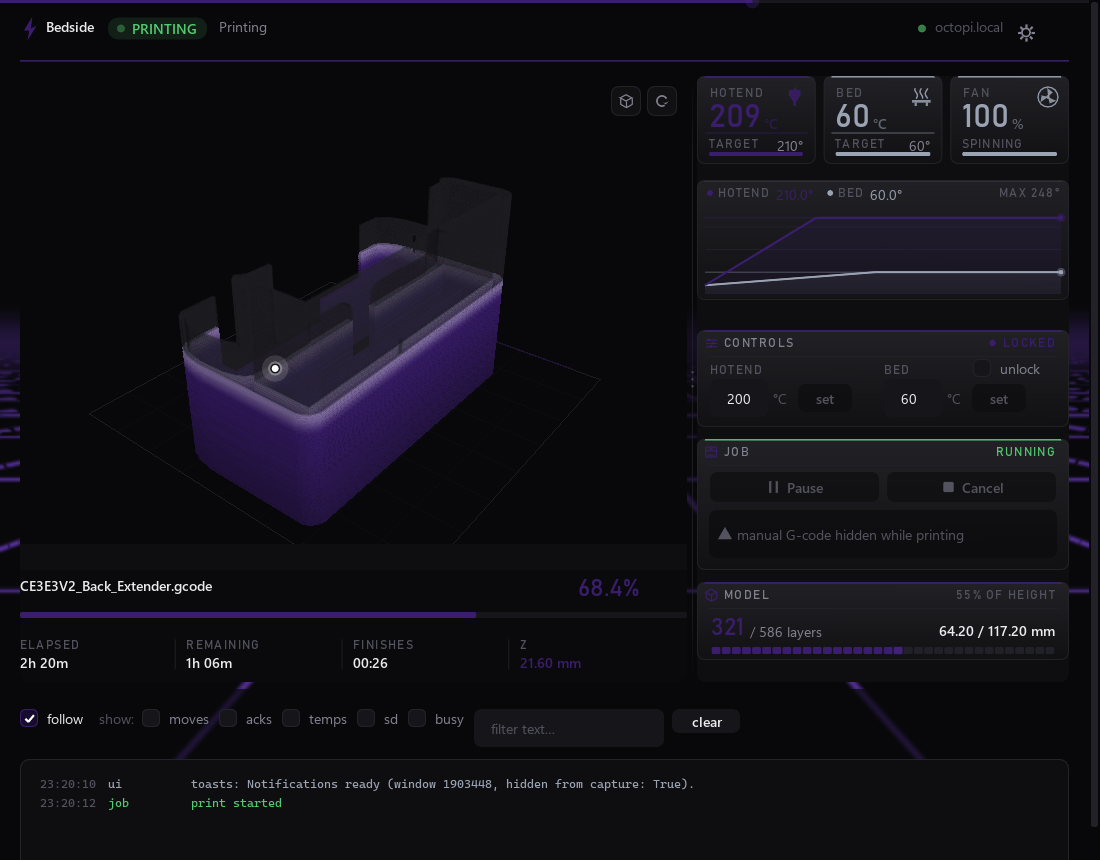
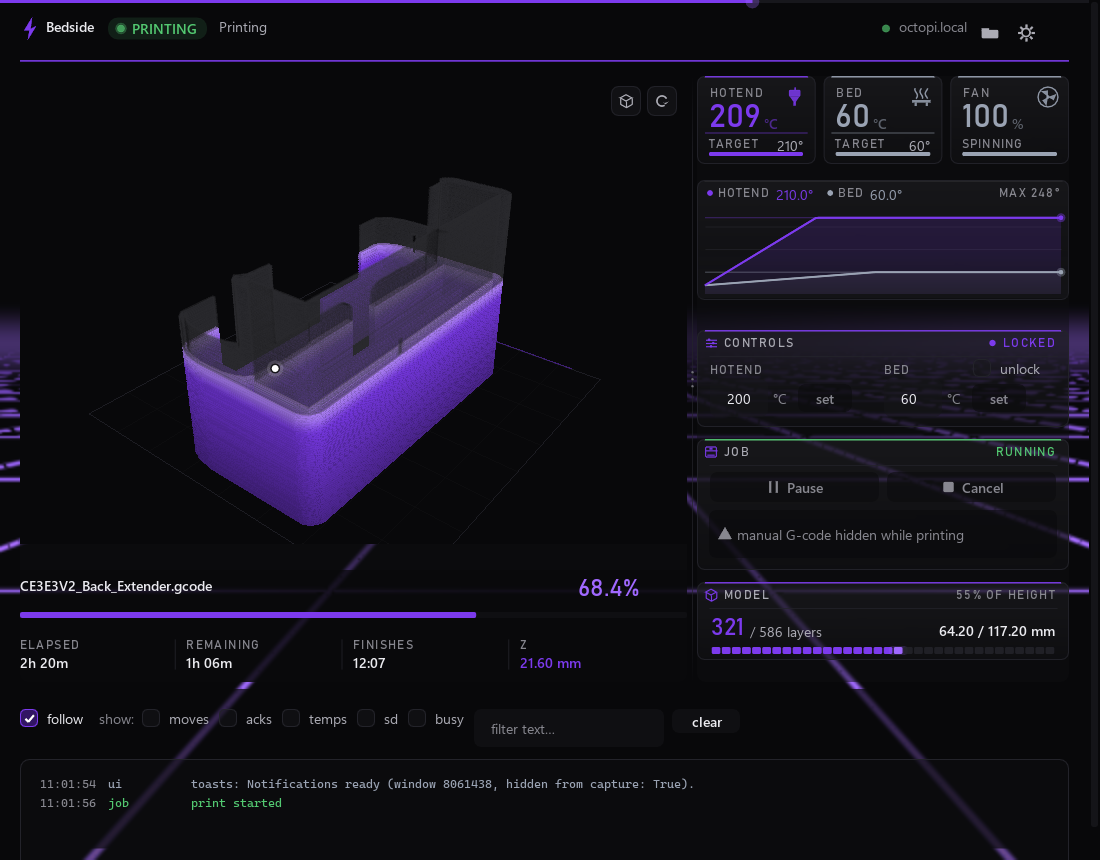
noir-iris at #7C3AED, and a spotlight that matches the app
Accent swapped from #37186E to #7C3AED — same hue (262 degrees), taken
from V=43% to V=93%, which puts it in the same brightness band as the
other presets' accents instead of well below them. Light text on it lands
at 4.75:1, so a primary button reads without help. accent_bright and
accent_dim recomputed to keep noir-red's value relationship between the
three; readable() still lifts bright the last notch, 4.39 -> 4.50:1.

The file's comment about the accent being much darker than the other
presets' was true of #37186E and is not true of this one, so it is
rewritten rather than left to mislead.

The recorder had two problems that made the README assets misleading:

  - It inherited app.st from the author's settings.json, so the showcase
    was whatever theme and accent happened to be on the recording machine.
    Theme, accent and scrim are now pinned in the script.

  - It called vui.install with a bare build_theme() and never set
    post_init, the same mistake the contrast harness made — so it was
    recording a palette the app does not render, notably the pre-0.2.2
    text ramp, which is most of what a viewer is actually looking at.

Regenerated both assets. The GIF verified by parsing the container
directly: 36 frames, NETSCAPE2.0 loop forever, uniform 10cs delays, 3.6s.
Seam checked on frames decoded by OpenCV rather than by our own encoder's
mirror — last-to-first difference is 1.02x the median step, i.e. the wrap
[…]

diff --git a/bedside/themes.py b/bedside/themes.py
@@ -13,23 +13,20 @@ from vertexui import theme as theme_mod
 
 rgb = theme_mod.rgb
 
-# A deep twilight violet on the noir chassis. The accent is much darker
-# than the other presets' — it works as a fill, where light text sits on
-# top of it at 11.5:1, and not at all as text, where it is 1.45:1 on the
-# window ground. That is the split the app already respects: `accent` for
-# fills and shapes, `accent_bright` for anything accent-coloured that has
-# to be read.
+# A violet on the noir chassis, at the same hue (262°) as the deeper
+# #37186E it started as but taken up to V=93%, which puts it in the same
+# brightness band as the other presets' accents rather than well below
+# them. Light text on it lands at 4.75:1, so a primary button reads.
 #
-# `accent_bright` is set to a genuinely bright value at the same hue rather
-# than a multiple of the accent, because scaling a V=43% colour upward by
-# the ratio the other presets use lands somewhere still too dark to
-# highlight anything.
+# `accent_bright` and `accent_dim` keep roughly the value relationship
+# noir-red uses between the three — bright a little lighter and less
+# saturated, dim at about 0.42 of the accent's value.
 NOIR_IRIS = replace(
     theme_mod.BUILTIN["noir-red"],
     name="noir-iris",
-    accent=rgb("#37186E"),
-    accent_bright=rgb("#8D4DFF"),
-    accent_dim=rgb("#1E0D3D"),
+    accent=rgb("#7C3AED"),
+    accent_bright=rgb("#9E65FF"),
+    accent_dim=rgb("#321564"),
 )
 
 EXTRA = {"noir-iris": NOIR_IRIS}

diff --git a/tools/make_spotlight.py b/tools/make_spotlight.py
@@ -94,6 +94,13 @@ def record(gcode_path):
     app.right_w, app.log_h, app.graph_h = 372.0, 150.0, 120.0
     app.panel_show = {k: True for k in A.PANEL_SECTIONS}
 
+    # Pinned, not inherited. `A.App()` loads the author's settings.json,
+    # so without this the showcase is whatever theme and accent happen to
+    # be on the machine that records it.
+    app.st.theme_name = "noir-iris"
+    app.st.accent = ""
+    app.st.extras["bg_scrim"] = 0.62
+
     app.bg.set("grid")
     app.bg.intensity = 1.25
     app.fx.set("none")
@@ -170,8 +177,13 @@ def record(gcode_path):
 
     import vertexui as vui
     A._use_our_assets()
-    vui.install(params, theme_=app.st.build_theme(),
+    # Mirror main(): readable() at install and _apply_theme on post_init.
+    # Without both, the recording shows a palette the app never renders —
+    # notably the pre-0.2.2 text ramp, which is most of what a viewer is
+    # looking at.
+    vui.install(params, theme_=A.readable(app.st.build_theme()),
                 faces=A.build_faces(app.st.extras))
+    params.callbacks.post_init = app._apply_theme
     hello_imgui.run(params)
     return state["frames"]
 

diff --git a/bedside/__init__.py b/bedside/__init__.py
@@ -1,3 +1,3 @@
 """Bedside - a custom OctoPrint desktop client built on VertexUI."""
 
-__version__ = "0.3.0"
+__version__ = "0.3.1"
